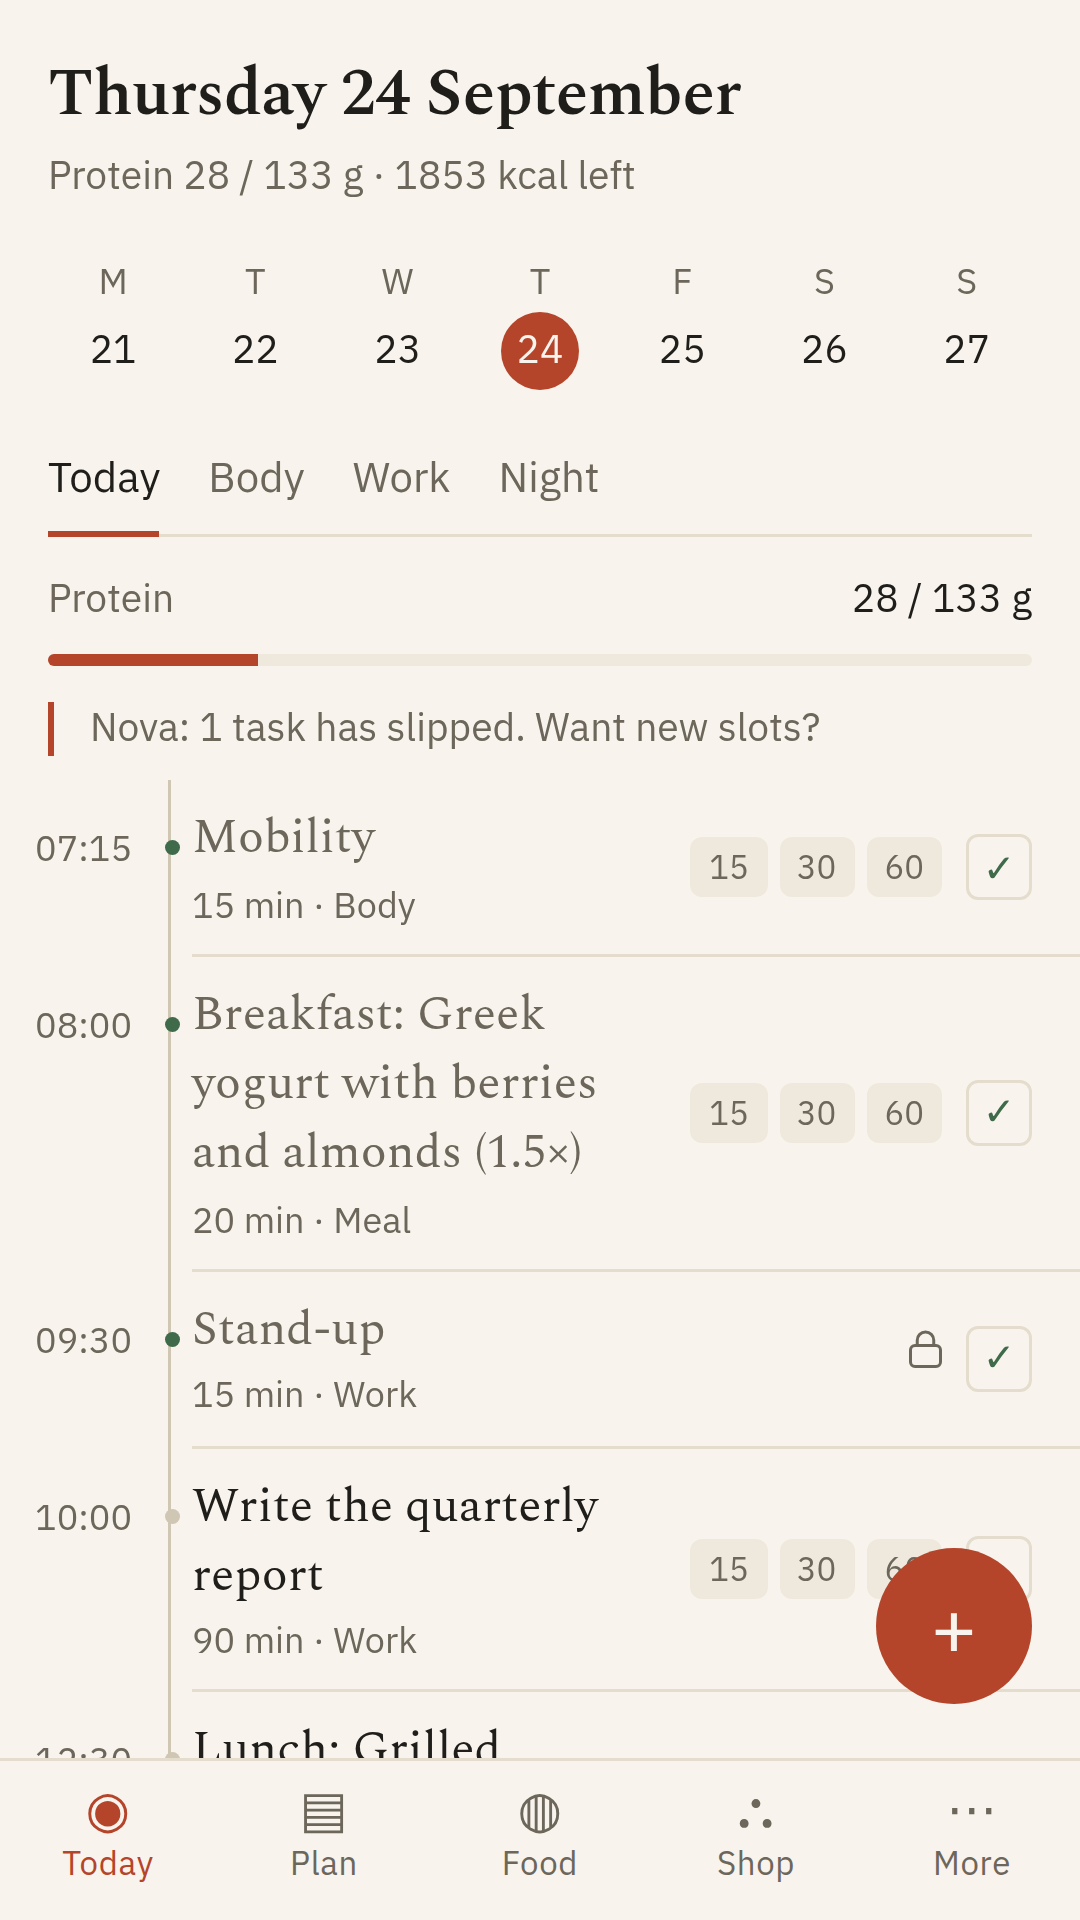
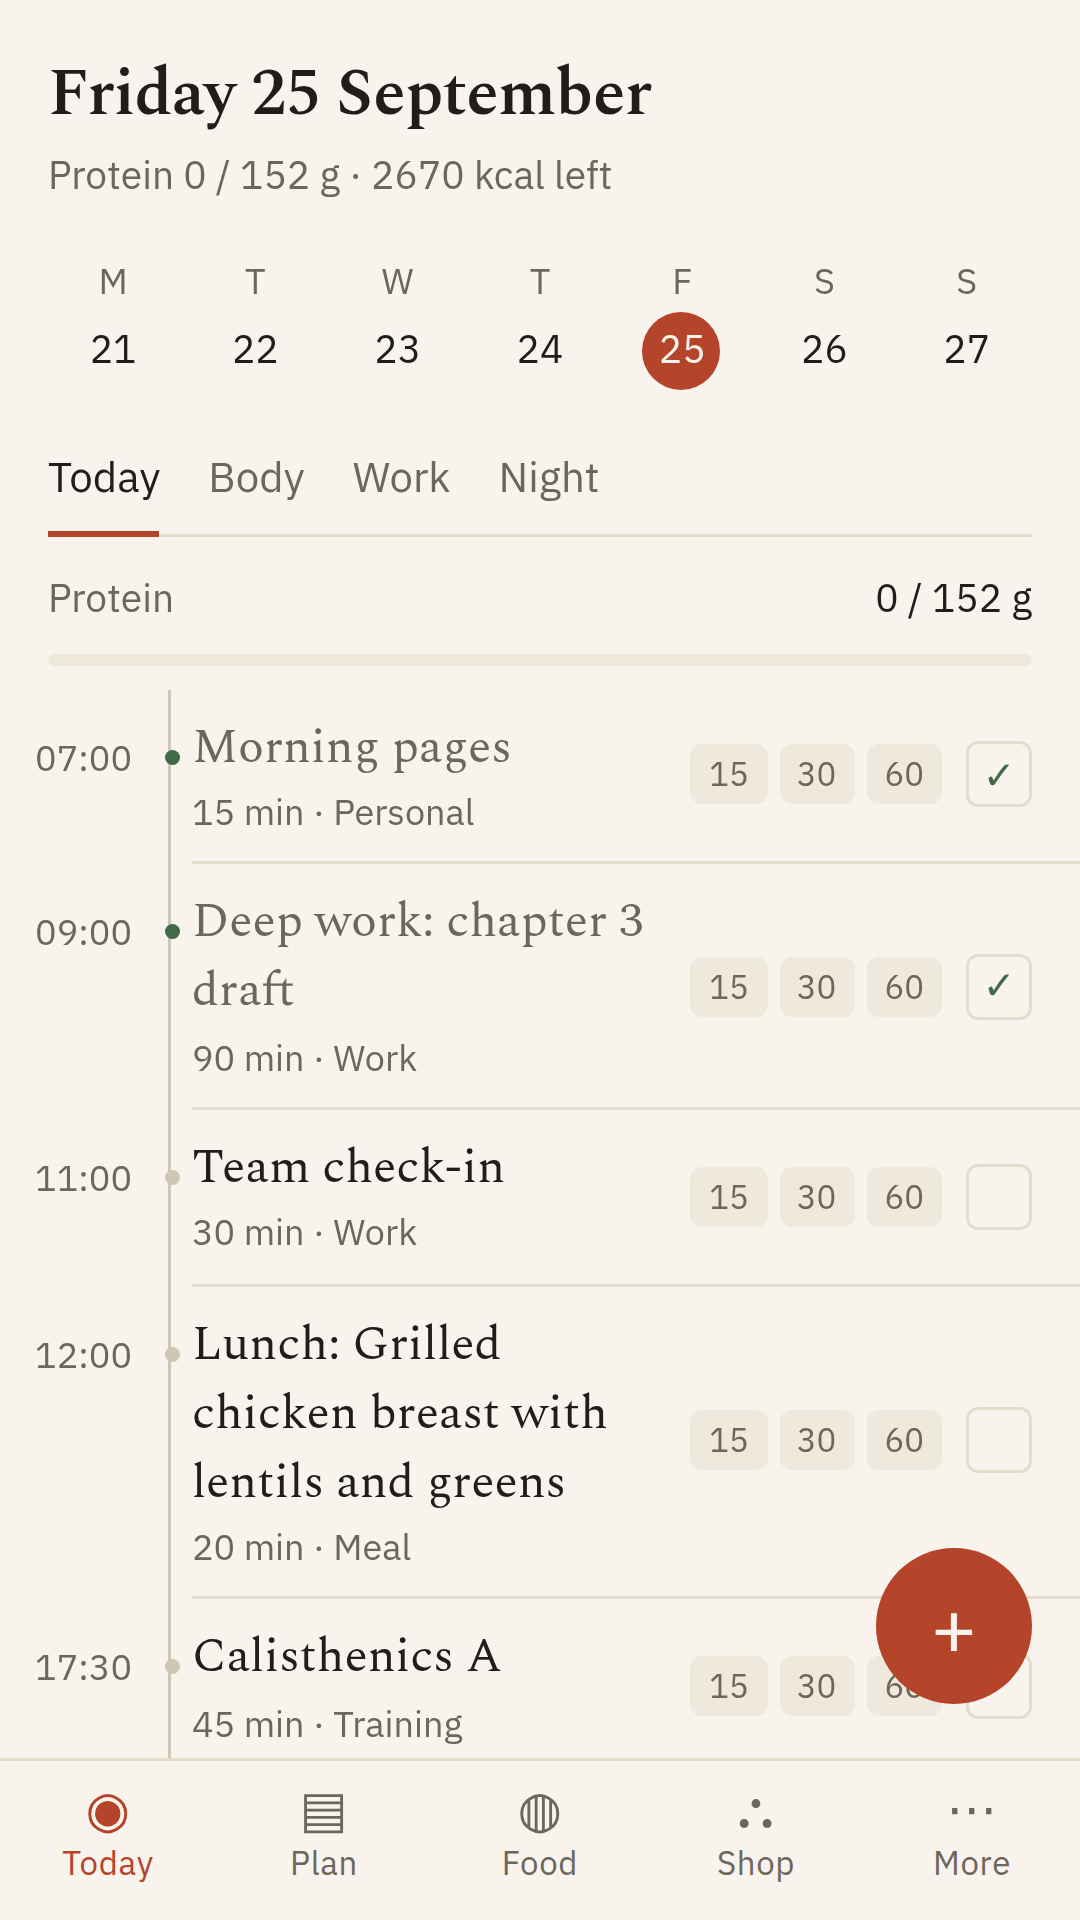
Forms fit a 360 px phone; fresh store screenshots
- Two-column form fields could push the weigh-in Save button off small screens
- New layout check opens every screen and tab at 360 px and fails on overflow
- Screenshot script fills an invented demo account itself; adds the Body tab
- Policy date moved to the day it last changed

Claude-Session: https://claude.ai/code/session_01MWx7bumqWNeEwx6ExK1vMa

diff --git a/src/styles/app.css b/src/styles/app.css
@@ -422,8 +422,13 @@ hr, .rule { border: 0; border-top: 1px solid var(--e-rule); margin: 0; }
 .bottom-sheet h2 { font-size: 18px; margin-bottom: var(--space-3); }
 .form-grid { display: grid; gap: var(--space-3); }
 .form-grid label { display: grid; gap: 4px; font-family: var(--font-sans); font-size: 13px; color: var(--e-ink-soft); }
-.form-grid .two { display: grid; grid-template-columns: 1fr 1fr; gap: var(--space-3); }
+.form-grid { min-width: 0; }
+/* minmax(0, …) and min-width: 0 let the fields shrink on a 360 px phone
+   instead of pushing the form, and its Save button, off the screen. */
+.form-grid .two { display: grid; grid-template-columns: repeat(2, minmax(0, 1fr)); gap: var(--space-3); }
+.form-grid label { min-width: 0; }
 .form-grid input, .form-grid select, .form-grid textarea {
+  width: 100%; min-width: 0; box-sizing: border-box;
   padding: 9px 10px; border: 1px solid var(--e-rule); border-radius: var(--radius-md);
   background: transparent; color: var(--e-ink); font: inherit; font-size: 15px;
 }

diff --git a/src/legal/policy.ts b/src/legal/policy.ts
@@ -8,7 +8,7 @@
  *  (VITE_CONTROLLER_NAME, VITE_CONTACT_EMAIL), so they are not hard-coded into
  *  the repository. The public site refuses to build without them. */
 
-export const POLICY_VERSION = '2026-09-24'
+export const POLICY_VERSION = '2026-09-25'
 
 export const controller = {
   name: (import.meta.env.VITE_CONTROLLER_NAME as string | undefined) ?? '',

diff --git a/src/test/README.md b/src/test/README.md
@@ -24,7 +24,7 @@ Make throwaway ones, run, and delete them afterwards:
 export SB=<Supabase access token>  TEST_PASSWORD=<random>
 export TEST_EMAIL=e2e-a@example.invalid TEST_NEW_EMAIL=e2e-b@example.invalid TEST_FEAT_EMAIL=e2e-c@example.invalid
 node scripts/test-accounts.mjs create $TEST_EMAIL $TEST_NEW_EMAIL $TEST_FEAT_EMAIL
-for t in features offline privacy tracking tour; do node src/test/$t.e2e.mjs || break; done
+for t in features offline privacy tracking layout tour; do node src/test/$t.e2e.mjs || break; done
 node scripts/test-accounts.mjs delete $TEST_EMAIL $TEST_NEW_EMAIL $TEST_FEAT_EMAIL
 ```
 
@@ -37,6 +37,7 @@ to the test accounts, because they run against the live project.
 - `tracking` — weigh-in, habits and supplements, the same tick from two offline phones,
   a repeating task, the evening review, the Excel import, an export read into another account.
 - `tour` — walks every screen and reports what rendered.
+- `layout` — opens every screen and tab at 360 px wide and fails if anything runs off the side.
 
 ## Database — `supabase/test.sh`
 
